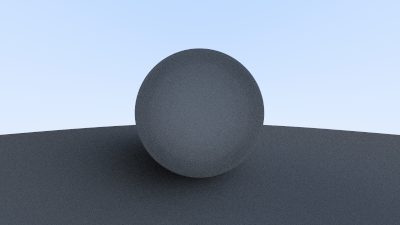
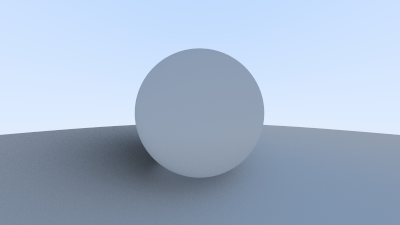
update README

diff --git a/src/material.rs b/src/material.rs
@@ -1,0 +1,45 @@
+use crate::color::Color;
+use crate::intersection::HitInfo;
+use crate::ray::{self, Ray};
+use crate::vec::{dotprod, Vec3};
+
+#[derive(Debug, Copy, Clone)]
+pub struct Material {
+    pub albedo: Color,
+}
+
+impl Material {
+    pub fn scatter(
+        self,
+        _ray_in: &Ray,
+        hit: HitInfo,
+        attenuation: &mut Color,
+        scattered_ray: &mut Ray,
+    ) -> bool {
+        let mut scatter_dir = hit.normal + Vec3::random_unit();
+
+        // catch degenerate scatter direction
+        if scatter_dir.near_zero() {
+            scatter_dir = hit.normal;
+        }
+
+        *scattered_ray = Ray::new(hit.point, scatter_dir);
+        *attenuation = self.albedo;
+        true
+    }
+}
+
+// impl Material for Metal {
+
+//     fn scatter(self, ray_in: &Ray, hit: HitInfo, attenuation: &mut Color, scattered_ray: &mut Ray) -> bool {
+
+//         // calculate the reflected ray
+//         let reflection_dir = ray_in.dir.reflected(hit.normal);
+
+//         *scattered_ray = Ray::new(hit.point, reflection_dir);
+//         *attenuation = self.albedo;
+
+//         // only reflect if ???
+//         dotprod(scattered_ray.dir, hit.normal) > 0.0
+//     }
+// }

diff --git a/src/main.rs b/src/main.rs
@@ -31,11 +31,11 @@ fn ray_color(ray: &ray::Ray, scene: &intersection::Scene, depth: u32) -> Color {
 
     // if we have exceeded the depth limit no more light is gathered
     if depth > MAX_DEPTH {
-        return Color::new(0.0, 0.0, 0.0);
+        return Color::black();
     }
 
     // intersect scene
-    let hit = scene.intersect(ray, 0.0, f64::MAX);
+    let hit = scene.intersect(ray, 0.1, f64::MAX);
 
     if hit.is_hit {
         // lambert

diff --git a/README.md b/README.md
@@ -4,16 +4,7 @@ A simple ray tracer written in rust.
 
 # TODO
 
-## Efficiency
-
-- [x] Parallelize on CPU
-- [ ] Port to CUDA?
-
-## Ray tracing related
-
-- Implement multiple materials
-
-## Random things
-
-- [ ] create a nice CLI using argparse
-- [ ] read the scene from config file (json?)
+- Rewrite "lib" into a single module with submodules
+- Learn about ownership, lifespan etc
+- Rewrite to use pointers in genera
+- Implement material
